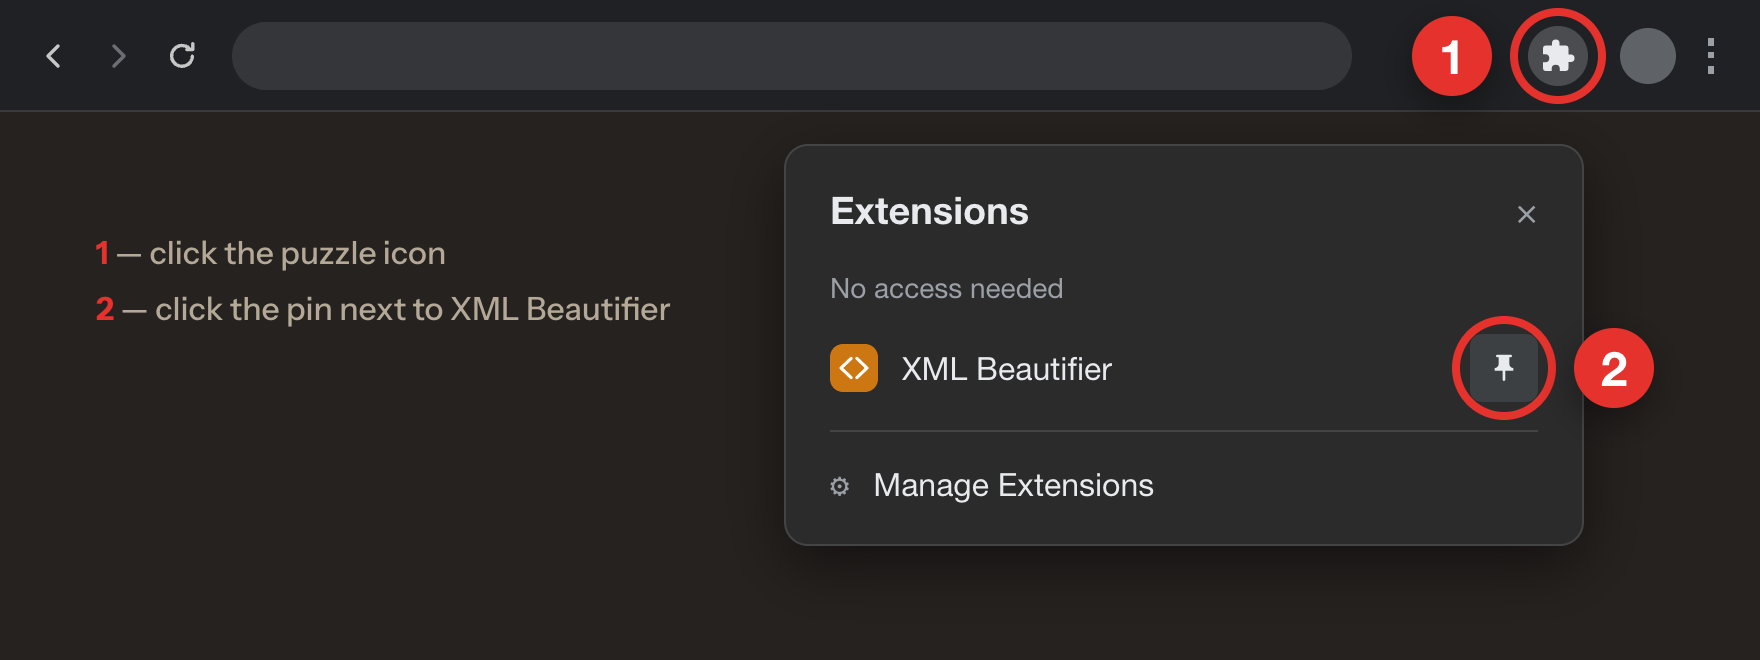
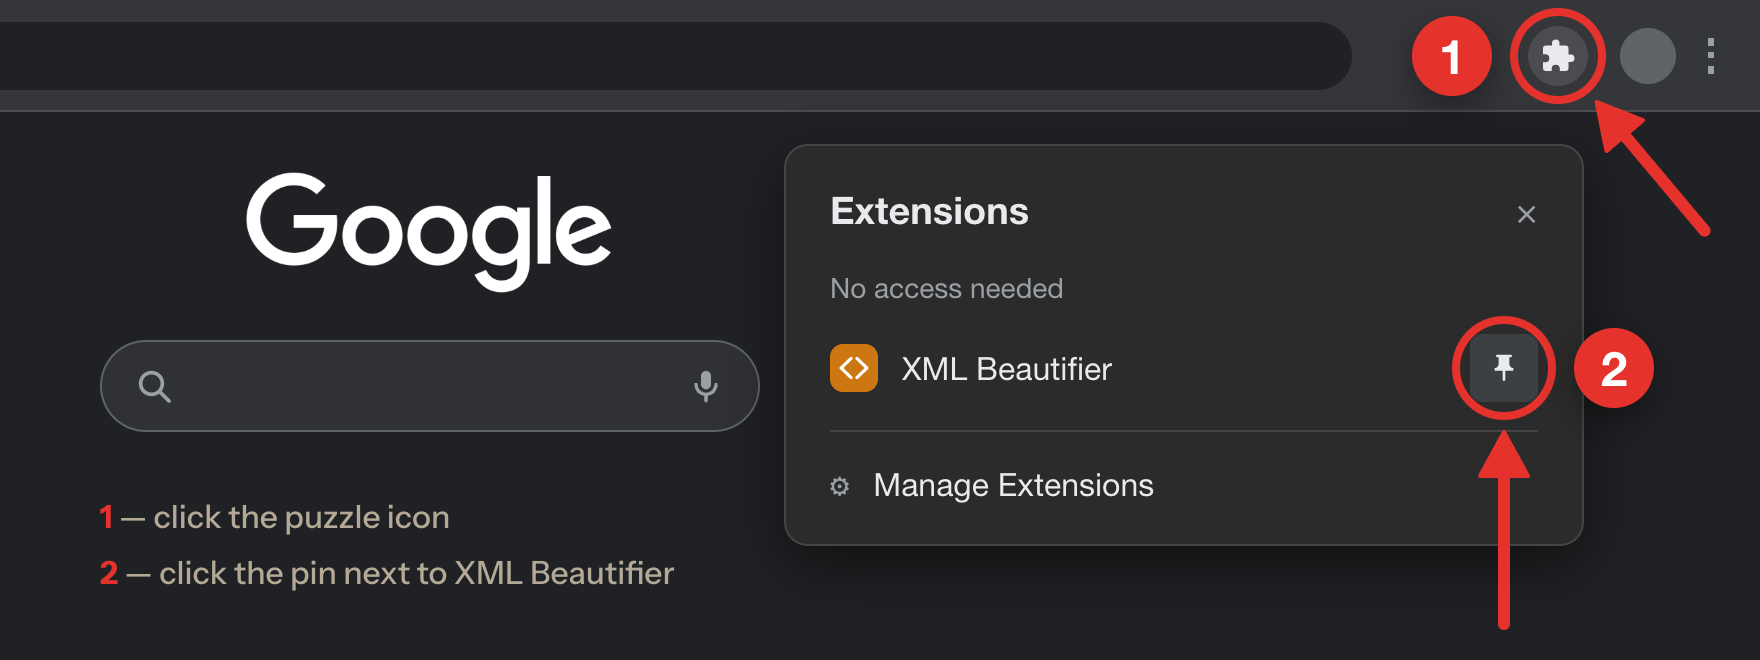
Welcome: one activation path, arrows, Google page, grey backdrop
- Remove the right-click section and step-4-context-menu.png, and the
  "loads it for you" sentence from step 3: one path, no fork.
- Re-render both pictures at 2x: a static red arrow at the puzzle, the pin
  and the toolbar icon; the Google start page in the window; no tabs and no
  other extensions.
- Grey .shot backdrop (#625b53) with a shadow so the dark window reads on
  the dark page. The first picture stays fully visible at 1280x800 and the
  second one peeks in.

diff --git a/welcome/index.html b/welcome/index.html
@@ -29,16 +29,20 @@
   .step h2 { font-size: 24px; letter-spacing: -0.01em; }
   .step > p { margin-top: 8px; color: #b3a996; max-width: 58ch; }
 
-  /* Annotated screenshots break out of the text column so the UI reads big. */
+  /* Annotated screenshots break out of the text column so the UI reads big; a grey backdrop sets the dark
+     browser window apart from the dark page. */
   .shot {
-    position: relative; margin-top: 16px; border-radius: 14px; overflow: hidden;
-    border: 1px solid #3a332c; box-shadow: 0 18px 50px rgba(0,0,0,.4); background: #262220;
-    width: min(94vw, 780px);
+    position: relative; margin-top: 16px; border-radius: 16px; padding: 18px;
+    background: #625b53; box-shadow: 0 18px 50px rgba(0,0,0,.45);
+    width: min(94vw, 816px);
     left: 50%; transform: translateX(-50%);
   }
-  .shot img { width: 100%; height: auto; display: block; }
+  .shot img { width: 100%; height: auto; display: block; border-radius: 10px; box-shadow: 0 8px 24px rgba(0,0,0,.35); }
+  @media (max-width: 600px) {
+    .shot { padding: 10px; border-radius: 12px; }
+    .shot img { border-radius: 7px; }
+  }
 
-  strong { font-weight: 600; color: #f2ece2; }
   footer { margin-top: 56px; padding-top: 24px; border-top: 1px solid #3a332c; font-size: 14px; color: #8f867a; }
   footer a { color: #b3a996; }
 </style>
@@ -58,17 +62,9 @@
     </section>
     <section class="step">
       <h2>Click the icon and paste your XML</h2>
-      <p>XML Beautifier opens in its own tab. Paste XML or drop a file, and the formatted version appears on the right.
-         If the current tab shows an XML file, clicking the icon loads it for you.</p>
+      <p>XML Beautifier opens in its own tab. Paste XML or drop a file, and the formatted version appears on the right.</p>
       <div class="shot">
-        <img src="step-3-open.png" alt="XML Beautifier pinned in the Chrome toolbar; step 3 — click its icon to open XML Beautifier in its own tab" width="1760" height="880">
-      </div>
-    </section>
-    <section class="step">
-      <h2>Or select XML on a page and right-click</h2>
-      <p>Choose <strong>Beautify selected XML</strong>, and the selected text opens in XML Beautifier, already formatted.</p>
-      <div class="shot">
-        <img src="step-4-context-menu.png" alt="XML selected on a web page with the right-click menu open; step 4 — choose Beautify selected XML" width="1760" height="760">
+        <img src="step-3-open.png" alt="XML Beautifier pinned in the Chrome toolbar; step 3 — click its icon to open XML Beautifier in its own tab" width="1760" height="500">
       </div>
     </section>
     <footer>
